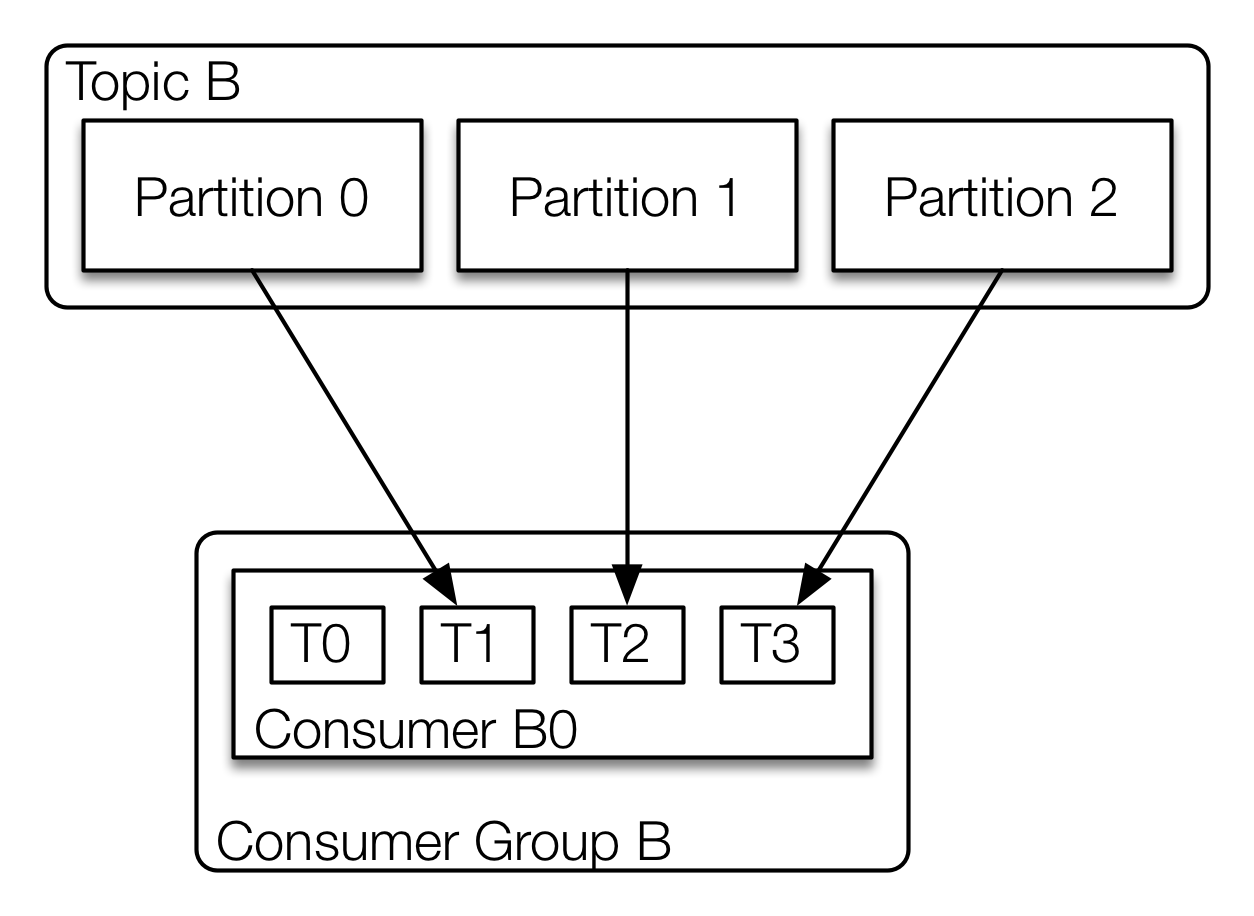
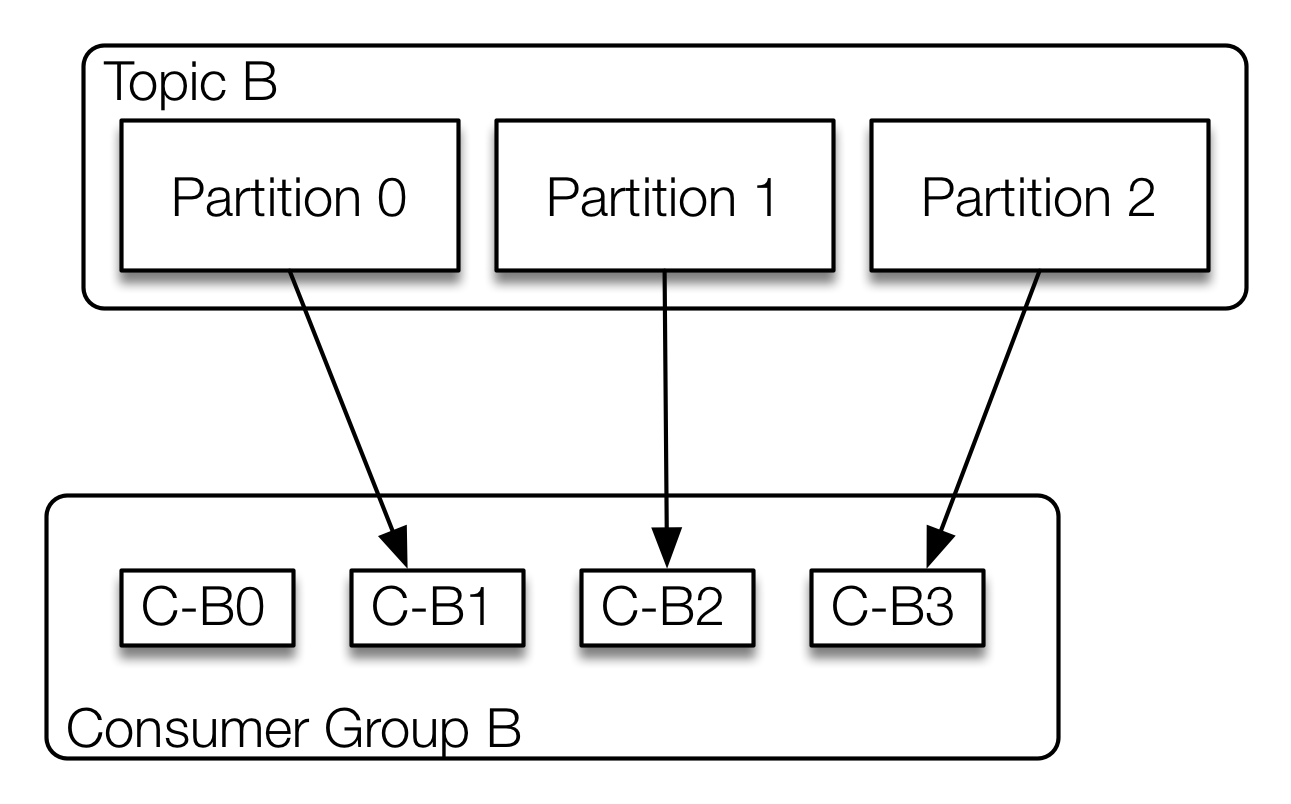
Updated partition assignment to 0.9

Changed region(s): [[0.0311, 0.0311, 0.9952, 0.9639], [0.8086, 0.6219, 0.8397, 0.9328]]

diff --git a/index.html b/index.html
@@ -293,12 +293,8 @@ public RecordMetadata send(News news) throws ExecutionException, InterruptedExce
 				<section>
 					<h2>Partition Assignment</h2>
 					<img width="65%" src="img/partition_assignment_1.png"/>
-					<small>“Kafka 101 - Massive Datenströme mit Apache Kafka” by Pfannenschmidt and Wisniewski, JavaMagazin 08.2015, p. 41</small>
 					<aside class="notes">
-						<ul>
-							<li>#Threads &gt; #Paritions &rarr; &uuml;bersch&uuml;ssigen Threads erhalten keine Nachrichten (siehe T0)</li>
-							<li>#Threads &lt; #Paritions &rarr; Threads bekommen Nachrichten von mehreren Partitionen &rarr; <b>keine Order mehr!!</b></li>
-						</ul>
+						<li>#Consumer &gt; #Partitionen &rarr; &uuml;bersch&uuml;ssigen Consumer erhalten keine Nachrichten
 					</aside>
 				</section>
 				<section>
@@ -306,20 +302,17 @@ public RecordMetadata send(News news) throws ExecutionException, InterruptedExce
 					<img width="65%" src="img/partition_assignment_2.png"/>
 					<small>Assignment algorithm configurable via consumer parameter <code data-trim class="java">partition.assignment.strategy</code></small>
 					<aside class="notes">
-						<ul>
-							<li>#Threads &gt; #Paritions &rarr; &uuml;bersch&uuml;ssigen Threads erhalten keine Nachrichten (siehe T0)</li>
-							<li>#Threads &lt; #Paritions &rarr; Threads bekommen Nachrichten von mehreren Partitionen &rarr; <b>keine Order mehr!!</b></li>
-						</ul>
+						#Consumer &lt; #Partitionen &rarr; Consumer bekommen Nachrichten von mehreren Partitionen.
 					</aside>
 				</section>
 
 				<section>
 					<h2>Java Consumer</h2>
 					<pre class="fragment"><code data-trim class="java">
-public SimpleConsumer(String bootstrapServers, String groupId,NewsConsumer consumer) {
+public SimpleConsumer(String bootstrapServers, String groupId, NewsConsumer consumer) {
     this.bootstrapServers = bootstrapServers;
     ...
-    this.name = String.format("%s[%s]", group, CONSUMER_THREAD_SEQUENCE.getAndIncrement());
+    this.name = String.format("%s[%s]", groupId, CONSUMER_SEQUENCE.getAndIncrement());
 }
 					</code></pre>
 					<pre class="fragment"><code data-trim class="java">
@@ -329,7 +322,7 @@ public interface NewsConsumer&lt;News&gt; {
 }
 					</code></pre>
 					<pre class="fragment"><code data-trim class="java">
-private Consumer&gt;String, News&gt; createConsumer() {
+private Consumer&lt;String, News&gt; createConsumer() {
     Map&lt;String, Object&gt; props = new HashMap&lt;&gt;();
     props.put(BOOTSTRAP_SERVERS_CONFIG, bootstrapServers);  // list of broker nodes
     props.put(GROUP_ID_CONFIG, groupId);                    // identifies consumer group
@@ -337,18 +330,22 @@ private Consumer&gt;String, News&gt; createConsumer() {
     props.put(ENABLE_AUTO_COMMIT_CONFIG, true);             // turn on auto-commit (default)
     props.put(KEY_DESERIALIZER_CLASS_CONFIG, StringDeserializer.class);
     props.put(VALUE_DESERIALIZER_CLASS_CONFIG, NewsDeserializer.class);
-    props.put(CLIENT_ID_CONFIG, String.format("%s-%s", InetAddress.getLocalHost().getHostName(), name));
+    props.put(CLIENT_ID_CONFIG, getClientId());
 
     return new KafkaConsumer&lt;&gt;(props);
 }
 					</code></pre>
 					<aside class="notes">
 						<ul>
-							<li><b>High Level Consumer API</b> lagert das Verwalten des Offset nach ZooKeeper oder Kafka aus</li>
-							<li><b>SimpleConsumer</b> &uuml;berl&auml;sst dies der Consumer-Implementierung</li>
-							<li>Client Re-Design ist in Arbeit</li>
+							<li>3 APIs
+								<ul>
+									<li><b>High Level Consumer API</b> lagert das Verwalten des Offset nach ZooKeeper oder Kafka aus</li>
+									<li><b>SimpleConsumer</b> &uuml;berl&auml;sst dies der Consumer-Implementierung</li>
+									<li>Hier: neue API 0.9</li>
+								</ul>
+								<li>new KafkaConsumer&lt;&gt;(props); schmeißt unchecked Exception.</li>
 						</ul>
-						Gott sei Dank gibt es die neue Java-API!
+
 					</aside>
 				</section>
 
@@ -381,6 +378,7 @@ private void relayMessage(ConsumerRecord&lt;String, News&gt; kafkaRecord) {
 }
 					</code></pre>
 					<aside class="notes">
+						poll ist nicht thread-safe: nebenläufiger Aufruf schmeißt Exception
 					</aside>
 				</section>
 
@@ -525,7 +523,7 @@ public void stop() {
 				<h2>Related</h2>
 				<ul>
 					<li class="fragment"><b>Clients</b>&emsp;&emsp;&emsp;Scala, Java, Python, Go, Perl, Erlang etc.</li>
-					<li class="fragment"><b>Integration</b>&emsp;Storm, Samza, Hadoop, ElasticSearch, Logstash, Hive etc.</li>
+					<li class="fragment"><b>Integration</b>&emsp;Spark, Storm, Samza, Hadoop, ElasticSearch, Logstash, Hive etc.</li>
 					<li class="fragment"><b>Confluent Platform</b>&emsp;Schema Registry, REST Proxy &amp; Camus</li>
 					<li class="fragment"><b>Kafka Streams</b>&emsp;&emsp;&emsp;Stream processing library vs. frameworks</li>
 				</ul>
